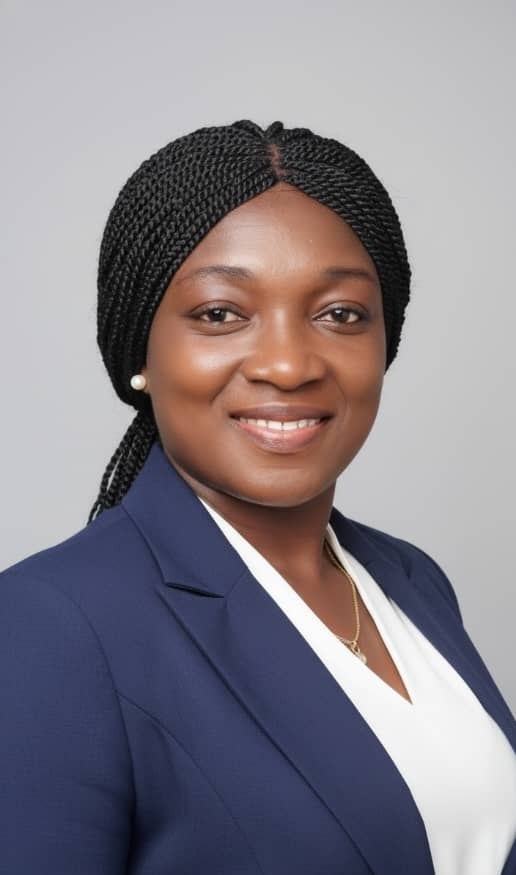
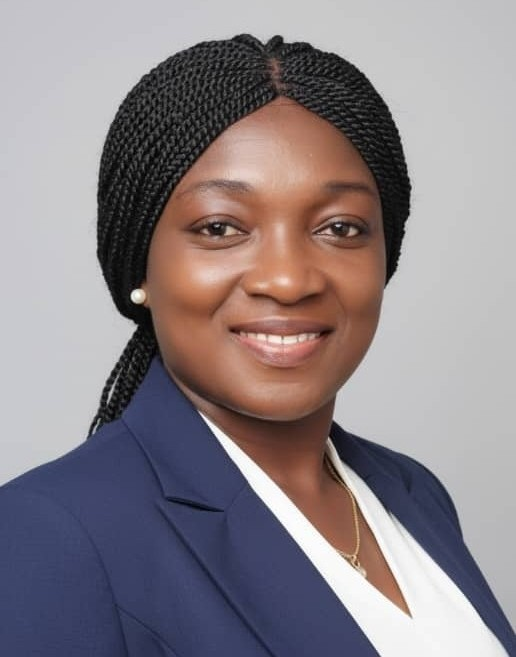
Updated images of the co mentors

diff --git a/index.html b/index.html
@@ -414,7 +414,7 @@
         <div class="team-grid">
 
           <div class="team-card team-card--comentor">
-            <div class="team-avatar team-avatar--sm" style="background:#0ea5e9;">SF</div>
+            <div class="team-avatar team-avatar--sm" style="background:#0ea5e9;"><img src="images/SamsonFaithAjanigo.jpg" alt="Samson Faith Ajanigo"></div>
             <div class="team-role-badge team-role-badge--comentor">Co-Mentor</div>
             <h3>Samson Faith Ajanigo</h3>
             <p>Specialization TBC</p>
@@ -435,7 +435,7 @@
           </div>
 
           <div class="team-card team-card--comentor">
-            <div class="team-avatar team-avatar--sm" style="background:#8b5cf6;"><img src="images/rukevwe-ubioworo.jpeg" alt="Rukevwe Ubioworo"></div>
+            <div class="team-avatar team-avatar--sm" style="background:#8b5cf6;"><img src="images/RukevweUbioworo.jpg" alt="Rukevwe Ubioworo" style="object-position: top;"></div>
             <div class="team-role-badge team-role-badge--comentor">Co-Mentor</div>
             <h3>Rukevwe Ubioworo</h3>
             <p>Specialization TBC</p>
@@ -449,7 +449,7 @@
           </div>
 
           <div class="team-card team-card--comentor">
-            <div class="team-avatar team-avatar--sm" style="background:#06b6d4;"><img src="images/ahanonye-nkechi-anna.jpeg" alt="Nkechi Ahanonye"></div>
+            <div class="team-avatar team-avatar--sm" style="background:#06b6d4;"><img src="images/ahanonye-nkechi-anna.jpeg" alt="Nkechi Ahanonye" style="object-position: top;"></div>
             <div class="team-role-badge team-role-badge--comentor">Co-Mentor</div>
             <h3>Nkechi Ahanonye</h3>
             <p>Specialization TBC</p>
@@ -463,7 +463,7 @@
           </div>
 
           <div class="team-card team-card--comentor">
-            <div class="team-avatar team-avatar--sm" style="background:#ec4899;">OG</div>
+            <div class="team-avatar team-avatar--sm" style="background:#ec4899;"><img src="images/gregodi.jpg" alt="Odi Chibuzor Greg" style="object-position: top;"></div>
             <div class="team-role-badge team-role-badge--comentor">Co-Mentor</div>
             <h3>Odi Chibuzor Greg</h3>
             <p>Specialization TBC</p>